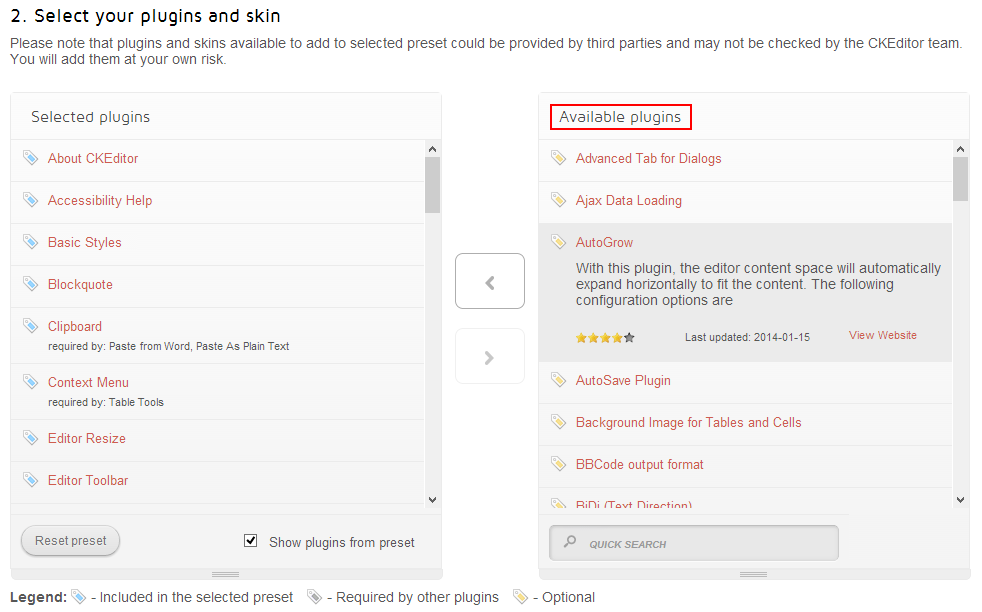
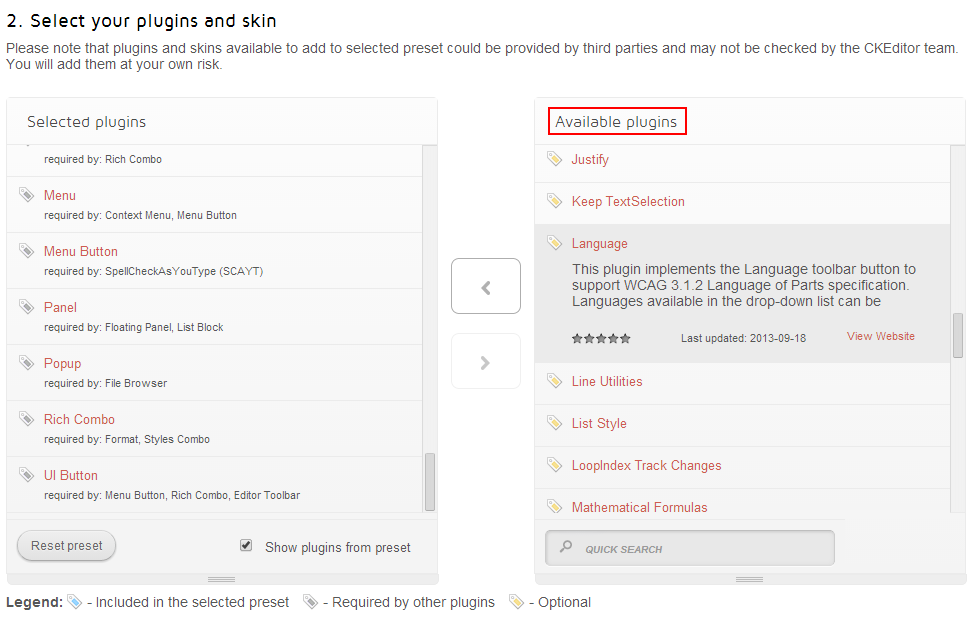
Further rewrite of Skin, Plugin, Widget Installation guides.

diff --git a/guides/dev/skins/README.md b/guides/dev/skins/README.md
@@ -1,4 +1,4 @@
-# Skins
+# Installing Skins
 
 The look and feel of the CKEditor user interface can be adjusted to your taste and customized through skins. Elements like the toolbar, dialog windows, buttons, and even their icons, can be changed to match the style of your website or application.
 
@@ -6,25 +6,52 @@ The default installation of CKEditor comes with the [Moono skin](http://ckeditor
 
 ## Where to Look for Skins?
 
-The [CKEditor Add-ons Repository](http://ckeditor.com/addons/skins) is an online service designed to find and share editor skins. Its structure, with comprehensive descriptions and screenshots, makes it easy to understand the skin features and the comment system lets you socialize with the CKEditor community and provide instant feedback. If you are a skin developer, the repository is also the best place to showcase your skills and reach a large user base.
+The [CKEditor Add-ons Repository](http://ckeditor.com/addons/plugins) is an online service designed to find and share editor plugins and skins. Its structure, with comprehensive descriptions and screenshots, makes it easy to understand the skin features and the comment system lets you socialize with the CKEditor community or provide instant feedback. If you are a skin designer, the repository is also the best place to showcase your skills and reach a large user base.
 
-## Downloading CKEditor with your Preferred Skin
+## Online Builder Installation
 
-[CKBuilder](http://ckeditor.com/builder) is the sister service of the CKEditor Add-ons Repository. It makes it possible to create a customized editor build by selecting the skin that best fit your needs.
+If you found an interesting skin in the Add-ons Repository, you can easily add it to your custom build.
 
-Throughout the navigation of the add-ons repository you will be able to use the "Add to my editor" button to include a skin of your choice in your custom editor. When you are happy with your custom build, you can simply download it an enjoy an editing experience that is perfectly suited for your needs.
+### Through CKBuilder
+
+The easiest method is to visit the [CKBuilder](http://ckeditor.com/builder) page and select the skin that you wish to use in the **Available Skins** section.
+
+<img src="guides/dev_skins/add_skin_ckbuilder_3.png" alt="Available Skins lists in CKBuilder" width="779" height="133">
+
+When you are happy with your configuration, click the **Download** button at the bottom of the CKBuilder page to download your custom build with the selected skin included.
+
+When you install your custom build, you will see it uses the skin that you added (in this example: [Kama](http://ckeditor.com/addon/kama)).
+
+<img src="guides/dev_skins/add_skin_ckbuilder_4.png" alt="A custom CKEditor build using the Kama skin" width="466" height="200">
+
+### Through Add-on Repository
+
+Visit the skin page in the [Add-ons Repository](http://ckeditor.com/addons/skins/all) and click the "**Add to my editor**" button.
+
+<img src="guides/dev_skins/add_skin_ckbuilder_1.png" alt="Adding a skin to the editor build" width="416" height="151">
+
+When you are ready, click the "**Build my editor**" button on the right to go to CKBuilder. The skin that you have just added will be listed as a part of your custom build.
+
+<img src="guides/dev_skins/add_skin_ckbuilder_2.png" alt="Building a custom CKEditor version" width="158" height="231">
+
+You can fine-tune your build in CKBuilder and when you are happy with your configuration, click the **Download** button at the bottom of the CKBuilder page to download your custom build with the selected skin included.
 
 ## Installing Skins Manually
 
-If you prefer not to use CKBuilder, if you have a skin developed by yourself of by third parties, or if you just want to test a skin before going through the CKBuilder process, you can also add a skin to your local installation manually by following the steps described below:
+Using CKBuilder is a recommended solution, however, if you have skins developed by yourself or by third parties, you can add skins to your local installation manually by following the steps described below:
 
+1. **Extract** the skin `.zip` archive.
 
- 1. **Extracting the zip file.** Skins are usually available as `zip` files. Start with extracting the `zip` archive into a folder.
+2. **Copy** the skin files to the `skins` folder of your CKEditor installation. Each skin must be placed in a sub-folder that matches its "technical" name.
 
- 2. **Copying the files to CKEditor.** The easiest way to install the files is by copying them into the `skins` folder of your CKEditor installation. Each skin must be placed in a sub-folder that matches its "technical" name. For example, the [Kama skin](http://ckeditor.com/addon/kama) would be installed into this folder: `<CKEditor folder>/plugins/kama`.
+	For example, the [Kama skin](http://ckeditor.com/addon/kama) would be installed into this folder: `<CKEditor folder>/skins/kama`.
 
- 3. **Enabling the skin.** Finally you need to tell CKEditor that you have a new skin for it to use. In order to do that, use the {@link CKEDITOR.config#skin skin} configuration setting:
+3. **Enable the skin.** Use the {@link CKEDITOR.config#skin skin} setting to add the skin to your confiuration:
 
 		config.skin = 'kama';
+	
+Your skin will now be available in your CKEditor installation.
 
-That's all. The new skin will now be enabled in CKEditor.
+<p class="tip">
+	To avoid the manual installation process <a href="http://ckeditor.com/user/login?redirect=skin">submit your skins to the Add-ons Repository</a> and encourage third-party developers to do so. In this way you will be able to both give something to the community and get valuable feedback on your work.
+</p>

diff --git a/guides/dev/plugins/README.md b/guides/dev/plugins/README.md
@@ -16,42 +16,46 @@ If you found some interesting plugins in the Add-ons Repository, you can easily 
 
 The easiest method is to visit the [CKBuilder](http://ckeditor.com/builder) page and find the plugins that you wish to have in the **Available Plugins** list on the right.
 
-<img src="guides/dev_plugin/add_plugin_ckbuilder_3.png" alt="Selected Plugins and Available Plugins lists in CKBuilder" width="786" height="490">
+<img src="guides/dev_plugins/add_plugin_ckbuilder_3.png" alt="Selected Plugins and Available Plugins lists in CKBuilder" width="778" height="494">
 
-Drag the plugin that you want to add to the **Selected Plugins** list on the left. All plugin dependencies will be resolved automatically for you and the required plugins will be added by the builder. When you are happy with your build configuration, click the **Download** button at the bottom of the CKBuilder page to download your custom build with all selected plugins included.
+Drag the plugins that you want to add to the **Selected Plugins** list on the left. All plugin dependencies will be resolved automatically for you and the required plugins will be added by the builder. When you are happy with your configuration, click the **Download** button at the bottom of the CKBuilder page to download your custom build with all selected plugins included.
+
+When you install your custom build, you will see that the additional plugins (in this example: [Language](http://ckeditor.com/addon/language)) are available in your CKEditor.
+
+<img src="guides/dev_plugins/add_plugin_ckbuilder_4.png" alt="A custom CKEditor build with the Language plugin" width="502" height="205">
 
 ### Through Add-on Repository
 
 Visit the plugin page in the [Add-ons Repository](http://ckeditor.com/addons/plugins/all) and click the "**Add to my editor**" button.
 
-<img src="guides/dev_plugin/add_plugin_ckbuilder_1.png" alt="Adding a plugin to the editor build" width="416" height="146">
+<img src="guides/dev_plugins/add_plugin_ckbuilder_1.png" alt="Adding a plugin to the editor build" width="416" height="146">
 
 When you are ready, click the "**Build my editor**" button on the right to go to CKBuilder. The plugin that you have just added will be counted as "selected".
 
-<img src="guides/dev_plugin/add_plugin_ckbuilder_2.png" alt="Building a custom CKEditor version" width="159" height="234">
+<img src="guides/dev_plugins/add_plugin_ckbuilder_2.png" alt="Building a custom CKEditor version" width="159" height="234">
 
-Please note that in CKBuilder all plugin dependencies will be resolved automatically for you. You can fine-tune your build and when you are happy with your build configuration, click the **Download** button at the bottom of the CKBuilder page to download your custom build with selected plugins included.
+Please note that in CKBuilder all plugin dependencies will be resolved automatically for you. You can fine-tune your build and when you are happy with your configuration, click the **Download** button at the bottom of the CKBuilder page to download your custom build with selected plugins included.
 
 ## Manual Installation
 
-Using CKBuilder is a recommended solution, however, if you have plugins developed by yourself of by third parties, you can add plugins to your local installation manually by following the steps described below:
+Using CKBuilder is a recommended solution, however, if you have plugins developed by yourself or by third parties, you can add plugins to your local installation manually by following the steps described below:
 
 1. **Extract** the plugin `.zip` archive.
 
 2. **Copy** the plugin files to the `plugins` folder of your CKEditor installation. Each plugin must be placed in a sub-folder that matches its "technical" name.
 
-	For example, the [Magic Line plugin](http://ckeditor.com/addon/magicline) would be installed into this folder: `<CKEditor folder>/plugins/magicline`.
+	For example, the [Language plugin](http://ckeditor.com/addon/language) would be installed into this folder: `<CKEditor folder>/plugins/language`.
 
 3. **Check and resolve plugin dependencies.** If a plugin needs others to work, you will need to add these manually as well.
 	
 4. **Enable the plugin.** Use the {@link CKEDITOR.config#extraPlugins extraPlugins} setting to add the plugin to your confiuration:
 
-		config.extraPlugins = 'magicline';
+		config.extraPlugins = 'language';
 	
 	If a plugin has any dependencies, you will need to enable these, too.
 
 Your plugin will now be available in your CKEditor installation.
 
 <p class="tip">
-	To avoid the manual installation process submit your plugins to the <a href="http://ckeditor.com/addons/plugins/all">Add-ons Repository</a> and encourage third-party developers to do so. In this way you will be able to both give something to the community and get valuable feedback.
+	To avoid the manual installation process <a href="http://ckeditor.com/user/login?redirect=plugin">submit your plugins to the Add-ons Repository</a> and encourage third-party developers to do so. In this way you will be able to both give something to the community and get valuable feedback on your work.
 </p>

diff --git a/guides/dev/widget_installation/README.md b/guides/dev/widget_installation/README.md
@@ -18,23 +18,30 @@ The easiest method is to visit the [CKBuilder](http://ckeditor.com/builder) page
 * **[Mathematical Formulas](http://ckeditor.com/addon/mathjax)** &ndash; a plugin that lets you add mathematical formulas written in TeX.
 * **[Placeholder](http://ckeditor.com/addon/placeholder)** &ndash; a plugin that lets you create non-editable text fragments.
 
-<img src="guides/dev_plugin/add_widget_ckbuilder_3.png" alt="Selected Plugins and Available Plugins lists in CKBuilder" width="786" height="491">
+<img src="guides/dev_widget_installation/add_widget_ckbuilder_3.png" alt="Selected Plugins and Available Plugins lists in CKBuilder" width="786" height="491">
 
-Drag the plugin that you want to add to the **Selected Plugins** list on the left. All plugin dependencies will be resolved automatically for you and the required plugins will be added by the builder. When you are happy with your build configuration, click the **Download** button at the bottom of the CKBuilder page to download your custom build with widget plugins included.
+Drag the widget plugin that you want to add to the **Selected Plugins** list on the left. All plugin dependencies will be resolved automatically for you and the required plugins will be added by the builder. When you are happy with your configuration, click the **Download** button at the bottom of the CKBuilder page to download your custom build with widget plugins included.
+
+When you install your custom build, you will see that the additional widget plugins (in this example: [Mathematical Formulas](http://ckeditor.com/addon/mathjax)) are available in your CKEditor.
+
+<img src="guides/dev_widget_installation/add_widget_ckbuilder_4.png" alt="A custom CKEditor build with the Mathematical Formulas widget" width="528" height="218">
 
 ### Through Add-on Repository
 
 Visit the widget plugin page in the [Add-ons Repository](http://ckeditor.com/addons/plugins/all) and click the "**Add to my editor**" button.
 
-<img src="guides/dev_widget_installation/add_widget_ckbuilder_1.png" alt="Adding a widget plugin to the editor build" width="423" height="159">
+<img src="guides/dev_widget_installation/add_widget_ckbuilder_1.png" alt="Adding a widget plugin to the editor build" width="420" height="186">
 
 When you are ready, click the "**Build my editor**" button on the right to go to CKBuilder. The plugin that you have just added will be counted as "selected".
 
-<img src="guides/dev_plugin/add_plugin_ckbuilder_2.png" alt="Building a custom CKEditor version" width="159" height="234">
+<img src="guides/dev_plugins/add_plugin_ckbuilder_2.png" alt="Building a custom CKEditor version" width="159" height="234">
 
-Please note that in CKBuilder all plugin dependencies will be resolved automatically for you. You can fine-tune your build and when you are happy with your build configuration, click the **Download** button at the bottom of the CKBuilder page to download your custom build with widget plugins included.
+Please note that in CKBuilder all plugin dependencies will be resolved automatically for you. You can fine-tune your build and when you are happy with your configuration, click the **Download** button at the bottom of the CKBuilder page to download your custom build with widget plugins included.
 
 ## Manual Installation
 
 Last but not least, you can [add widget plugins manually](#!/guide/dev_plugins-section-3) by downloading the `.zip` packages,  adding them to an existing CKEditor 4.3+ installation, and modifying the editor configuration manually. This is not a recommended solution, though, and should only be used by experienced CKEditor developers. Be mindful of widget dependencies!
 
+<p class="tip">
+	To avoid the manual installation process <a href="http://ckeditor.com/user/login?redirect=plugin">submit your widget plugins to the Add-ons Repository</a> and encourage third-party developers to do so. In this way you will be able to both give something to the community and get valuable feedback on your work.
+</p>
